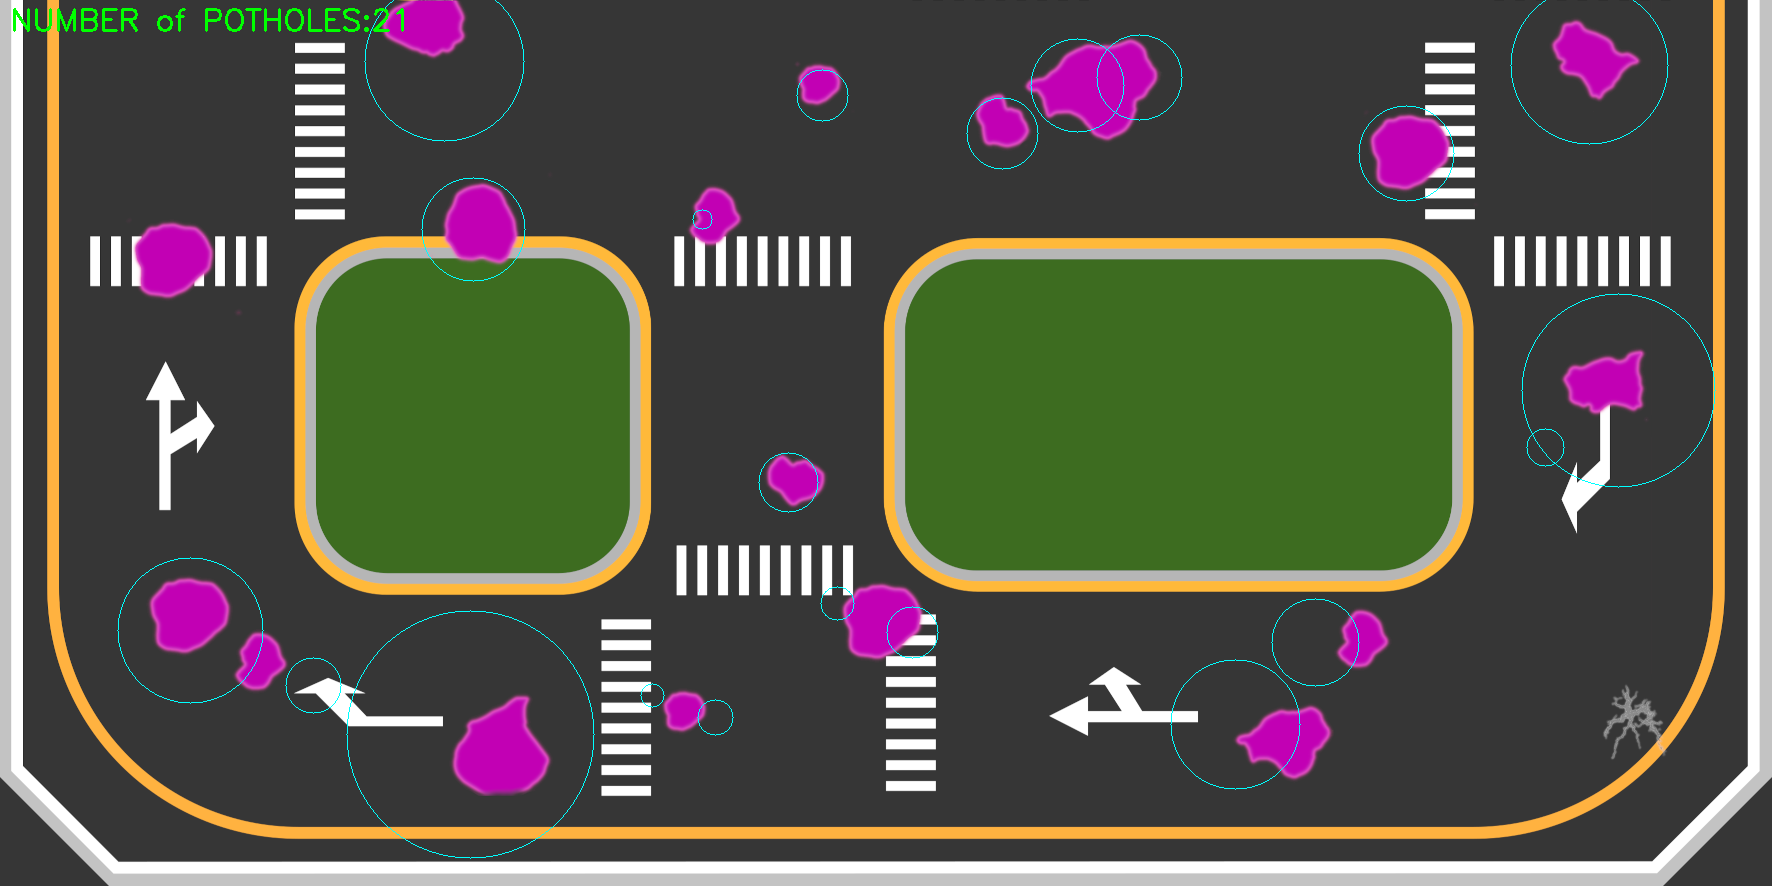
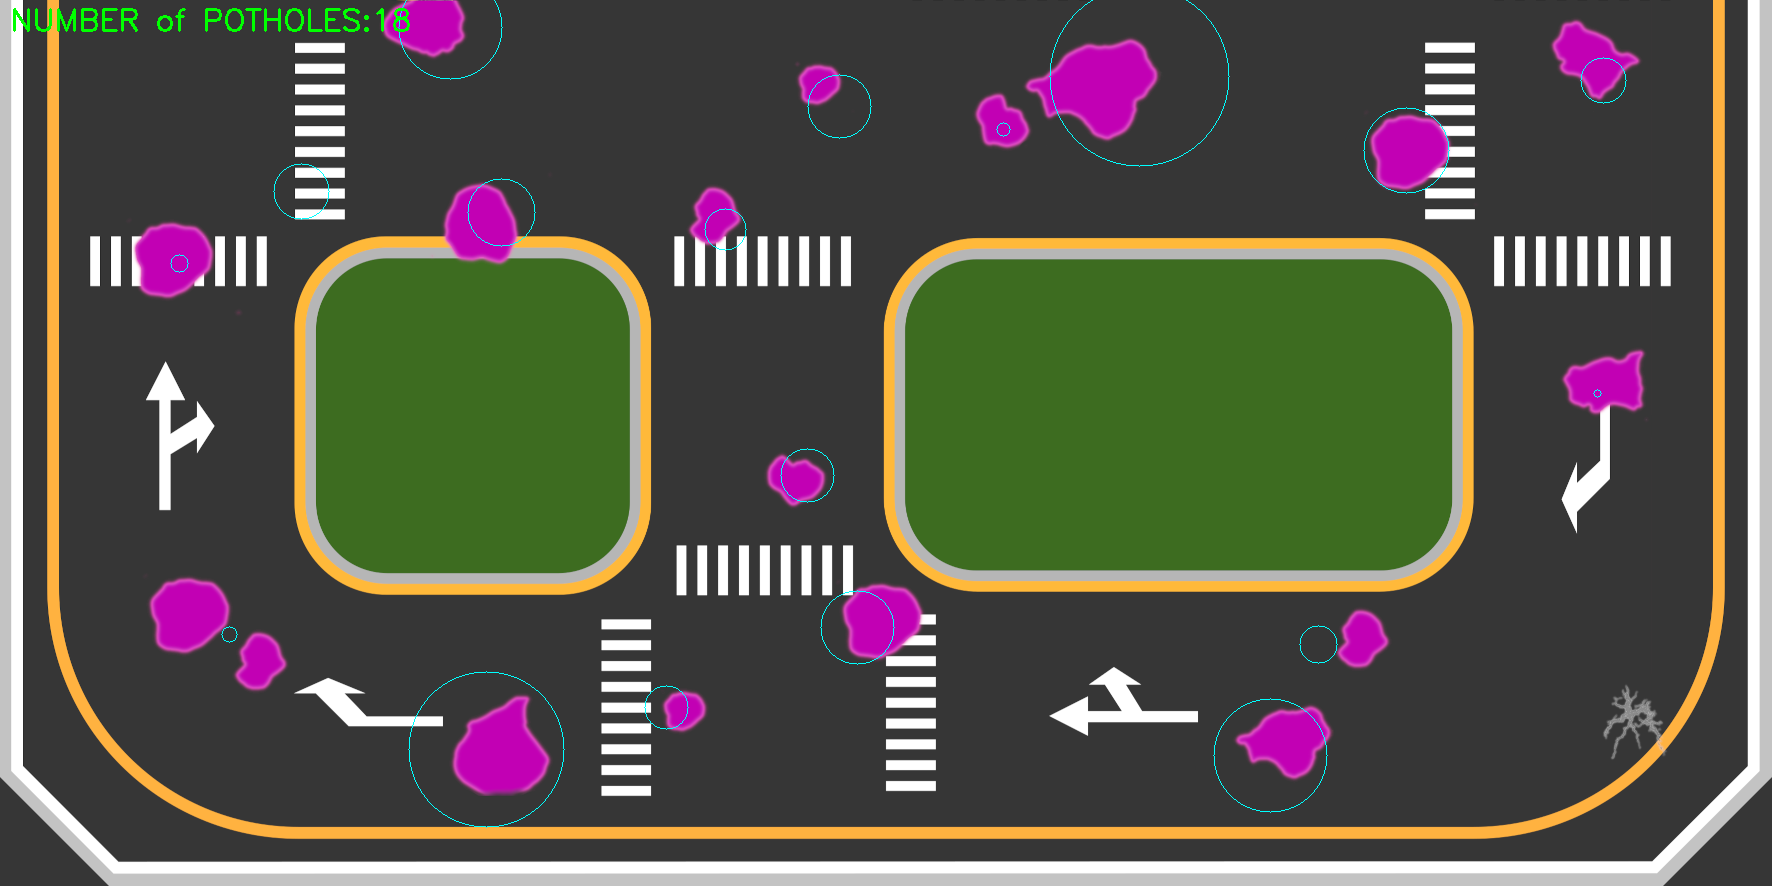
minoe change

Changed region(s): [[0.2173, 0.0, 0.2483, 0.0305]]

diff --git a/assignment_template/object_detector.py b/assignment_template/object_detector.py
@@ -1,0 +1,167 @@
+# Python libs
+import rclpy
+from rclpy.node import Node
+from rclpy import qos
+import numpy as np
+# OpenCV
+import cv2
+
+# ROS libraries
+import image_geometry
+from tf2_ros import Buffer, TransformListener
+
+# ROS Messages
+from sensor_msgs.msg import Image, CameraInfo
+from geometry_msgs.msg import PoseStamped
+from cv_bridge import CvBridge, CvBridgeError
+from tf2_geometry_msgs import do_transform_pose
+
+class ObjectDetector(Node):
+    camera_model = None
+    image_depth_ros = None
+
+    visualisation = True
+    # aspect ration between color and depth cameras
+    # calculated as (color_horizontal_FOV/color_width) / (depth_horizontal_FOV/depth_width) from the dabai camera parameters
+    color2depth_aspect = 1.0 # for a simulated camera
+
+    def __init__(self):    
+        super().__init__('image_projection_3')
+        self.bridge = CvBridge()
+
+        self.camera_info_sub = self.create_subscription(CameraInfo, '/limo/depth_camera_link/camera_info',
+                                                self.camera_info_callback, 
+                                                qos_profile=qos.qos_profile_sensor_data)
+        
+        self.object_location_pub = self.create_publisher(PoseStamped, '/limo/object_location', 10)
+
+        self.image_sub = self.create_subscription(Image, '/limo/depth_camera_link/image_raw', 
+                                                  self.image_color_callback, qos_profile=qos.qos_profile_sensor_data)
+        
+        self.image_sub = self.create_subscription(Image, '/limo/depth_camera_link/depth/image_raw', 
+                                                  self.image_depth_callback, qos_profile=qos.qos_profile_sensor_data)
+        
+        self.tf_buffer = Buffer()
+        self.tf_listener = TransformListener(self.tf_buffer, self)
+
+    def get_tf_transform(self, target_frame, source_frame):
+        try:
+            transform = self.tf_buffer.lookup_transform(target_frame, source_frame, rclpy.time.Time())
+            return transform
+        except Exception as e:
+            self.get_logger().warning(f"Failed to lookup transform: {str(e)}")
+            return None
+
+    def camera_info_callback(self, data):
+        if not self.camera_model:
+            self.camera_model = image_geometry.PinholeCameraModel()
+        self.camera_model.fromCameraInfo(data)
+
+    def image_depth_callback(self, data):
+        self.image_depth_ros = data
+
+    def image_color_callback(self, data):
+        # wait for camera_model and depth image to arrive
+        if self.camera_model is None:
+            return
+
+        if self.image_depth_ros is None:
+            return
+
+        # covert images to open_cv
+        try:
+            image_color = self.bridge.imgmsg_to_cv2(data, "bgr8")
+            image_depth = self.bridge.imgmsg_to_cv2(self.image_depth_ros, "32FC1")
+        except CvBridgeError as e:
+            print(e)
+
+        # convert to HSV
+        hsv_image = cv2.cvtColor(image_color, cv2.COLOR_BGR2HSV)  
+        # define range of hsv  
+        lower_hsv = np.array([140,50,30])
+        upper_hsv = np.array([160,150,80])
+
+        pothole_mask = cv2.inRange(hsv_image, lower_hsv, upper_hsv)
+        contours, _ = cv2.findContours(pothole_mask, cv2.RETR_EXTERNAL, cv2.CHAIN_APPROX_SIMPLE)
+
+        # Filter contours based on area 
+        for contour in contours:
+            
+            area = cv2.contourArea(contour) 
+            print('area', area)
+            # Calculate contour area and ignore small areas
+            if cv2.contourArea(contour) < 5:  # The area threshold will need to be adjusted
+                continue
+
+            # calculate moments of the binary image
+            M = cv2.moments(contour)
+
+            if M["m00"] == 0:
+                print('No object detected.')
+                return
+
+            # calculate the y,x centroid
+            image_coords = (M["m01"] / M["m00"], M["m10"] / M["m00"])
+            # "map" from color to depth image
+            depth_coords = (image_depth.shape[0]/2 + (image_coords[0] - image_color.shape[0]/2)*self.color2depth_aspect, 
+                image_depth.shape[1]/2 + (image_coords[1] - image_color.shape[1]/2)*self.color2depth_aspect)
+            # get the depth reading at the centroid location
+            depth_y, depth_x = int(depth_coords[0]), int(depth_coords[1])
+            if depth_x > image_depth.shape[1]:
+                depth_x = image_depth.shape[1]-1
+            if depth_y > image_depth.shape[0]:
+                depth_y = image_depth.shape[0]-1
+
+            depth_value = image_depth[depth_y,depth_x] # you might need to do some boundary checking first!
+
+            print('image coords: ', image_coords)
+            print('depth coords: ', depth_coords)
+            print('depth value: ', depth_value)
+
+            # calculate object's 3d location in camera coords
+            camera_coords = self.camera_model.projectPixelTo3dRay((image_coords[1], image_coords[0])) #project the image coords (x,y) into 3D ray in camera coords 
+            camera_coords = [x/camera_coords[2] for x in camera_coords] # adjust the resulting vector so that z = 1
+            camera_coords = [x*depth_value for x in camera_coords] # multiply the vector by depth
+
+            print('camera coords: ', camera_coords)
+
+            #define a point in camera coordinates
+            object_location = PoseStamped()
+            object_location.header.frame_id = "depth_link"
+            object_location.pose.orientation.w = 1.0
+            object_location.pose.position.x = camera_coords[0]
+            object_location.pose.position.y = camera_coords[1]
+            object_location.pose.position.z = camera_coords[2]
+
+            # publish so we can see that in rviz
+            self.object_location_pub.publish(object_location)        
+
+            # print out the coordinates in the odom frame
+            transform = self.get_tf_transform('depth_link', 'odom')
+            p_camera = do_transform_pose(object_location.pose, transform)
+
+            print('odom coords: ', p_camera.position)
+
+            if self.visualisation:
+
+                # draw circles
+                cv2.circle(image_color, (int(image_coords[1]), int(image_coords[0])), 10, 255, -1)
+                cv2.circle(image_depth, (int(depth_coords[1]), int(depth_coords[0])), 5, 255, -1)
+
+                #resize and adjust for visualisation
+                image_color = cv2.resize(image_color, (0,0), fx=0.5, fy=0.5)
+                image_depth *= 1.0/10.0 # scale for visualisation (max range 10.0 m)
+
+                cv2.imshow("image depth", image_depth)
+                cv2.imshow("image color", image_color)
+                cv2.waitKey(1)
+
+def main(args=None):
+    rclpy.init(args=args)
+    image_projection = ObjectDetector()
+    rclpy.spin(image_projection)
+    image_projection.destroy_node()
+    rclpy.shutdown()
+
+if __name__ == '__main__':
+    main()

diff --git a/assignment_template/assignment_template/object_detector.py b/assignment_template/assignment_template/object_detector.py
@@ -117,7 +117,7 @@ class ObjectDetector(Node):
             # Filter and analyze contours
             for contour in contours:
                 
-                if cv2.contourArea(contour) < 500:  # The area threshold may need tuning
+                if cv2.contourArea(contour) < 300:  # The area threshold may need tuning
                     
                     continue
                 peri = cv2.arcLength(contour, True)
@@ -128,7 +128,7 @@ class ObjectDetector(Node):
                     # continue
                 # compare the two diagno(potholes close to similar diagnogal len)
                 x, y, w, h = cv2.boundingRect(contour)
-                if 3>np.abs(w)/np.abs(h)>0.3 :
+                if 5>np.abs(w)/np.abs(h)>0.2 :
                     new_contours.append(contour)
                     # Visualize the contour
                     # cv2.drawContours(image_color, [contour], -1, (0, 255, 0), 2)
@@ -187,7 +187,7 @@ class ObjectDetector(Node):
             if depth_value < 0.0 or depth_value > 1:
                 continue 
             new_contours.append(contour)
-            cv2.drawContours(image_color, new_contours, -1, (0,255,0), 3) # To visualize the pothole in the robot image
+            cv2.drawContours(image_color, contours, -1, (0,255,0), 3) # To visualize the pothole in the robot image
             cv2.imshow('Potholes_pink', image_color)
             # print('image coords: ', image_coords)
             # print('depth coords: ', depth_coords)
@@ -220,8 +220,8 @@ class ObjectDetector(Node):
                 return
             p_exist = self.potholes_rviz.markers.copy()
             for i, m in enumerate(p_exist):
-                if np.abs(p_camera.position.x - m.pose.position.x)< 0.1 and np.abs(p_camera.position.y - m.pose.position.y)< 0.1:
-                    self.potholes_rviz.markers[i].ns = str(real_area)
+                if np.abs(p_camera.position.x - m.pose.position.x)< 0.15 and np.abs(p_camera.position.y - m.pose.position.y)< 0.15:
+                    self.potholes_rviz.markers[i].ns = str((float(self.potholes_rviz.markers[i].ns) +real_area)/2)
                     
                     print('repeated',self.potholes_rviz.markers[i].ns)
                     return

diff --git a/assignment_template/assignment_template/report.py b/assignment_template/assignment_template/report.py
@@ -27,7 +27,7 @@ class potholes_report(Node):
             return cv2.imread('background_potholes.png')
         
     def marker_callback(self, msg):
-        print(msg.markers.ns)
+        # print(msg.markers.ns)
         self.map = self.load_background_image() 
         for marker in msg.markers:
             x = marker.pose.position.x
@@ -35,7 +35,7 @@ class potholes_report(Node):
             print("coordinate",x,y)
             x_,y_ = self.real_to_image(x,y)
             print('new coor',x_,y_)
-            size  = float(marker.ns)/150 * 10 
+            size  = float(marker.ns)/250 * 10 
             cv2.circle(self.map, (int(x_),int( y_)), int(size), (255,255,0))
         text = "NUMBER of POTHOLES:"+ str(len(msg.markers))
         cv2.putText(self.map, str(text), (10, 30), cv2.FONT_HERSHEY_SIMPLEX, 1, (0, 255, 0), 2)
